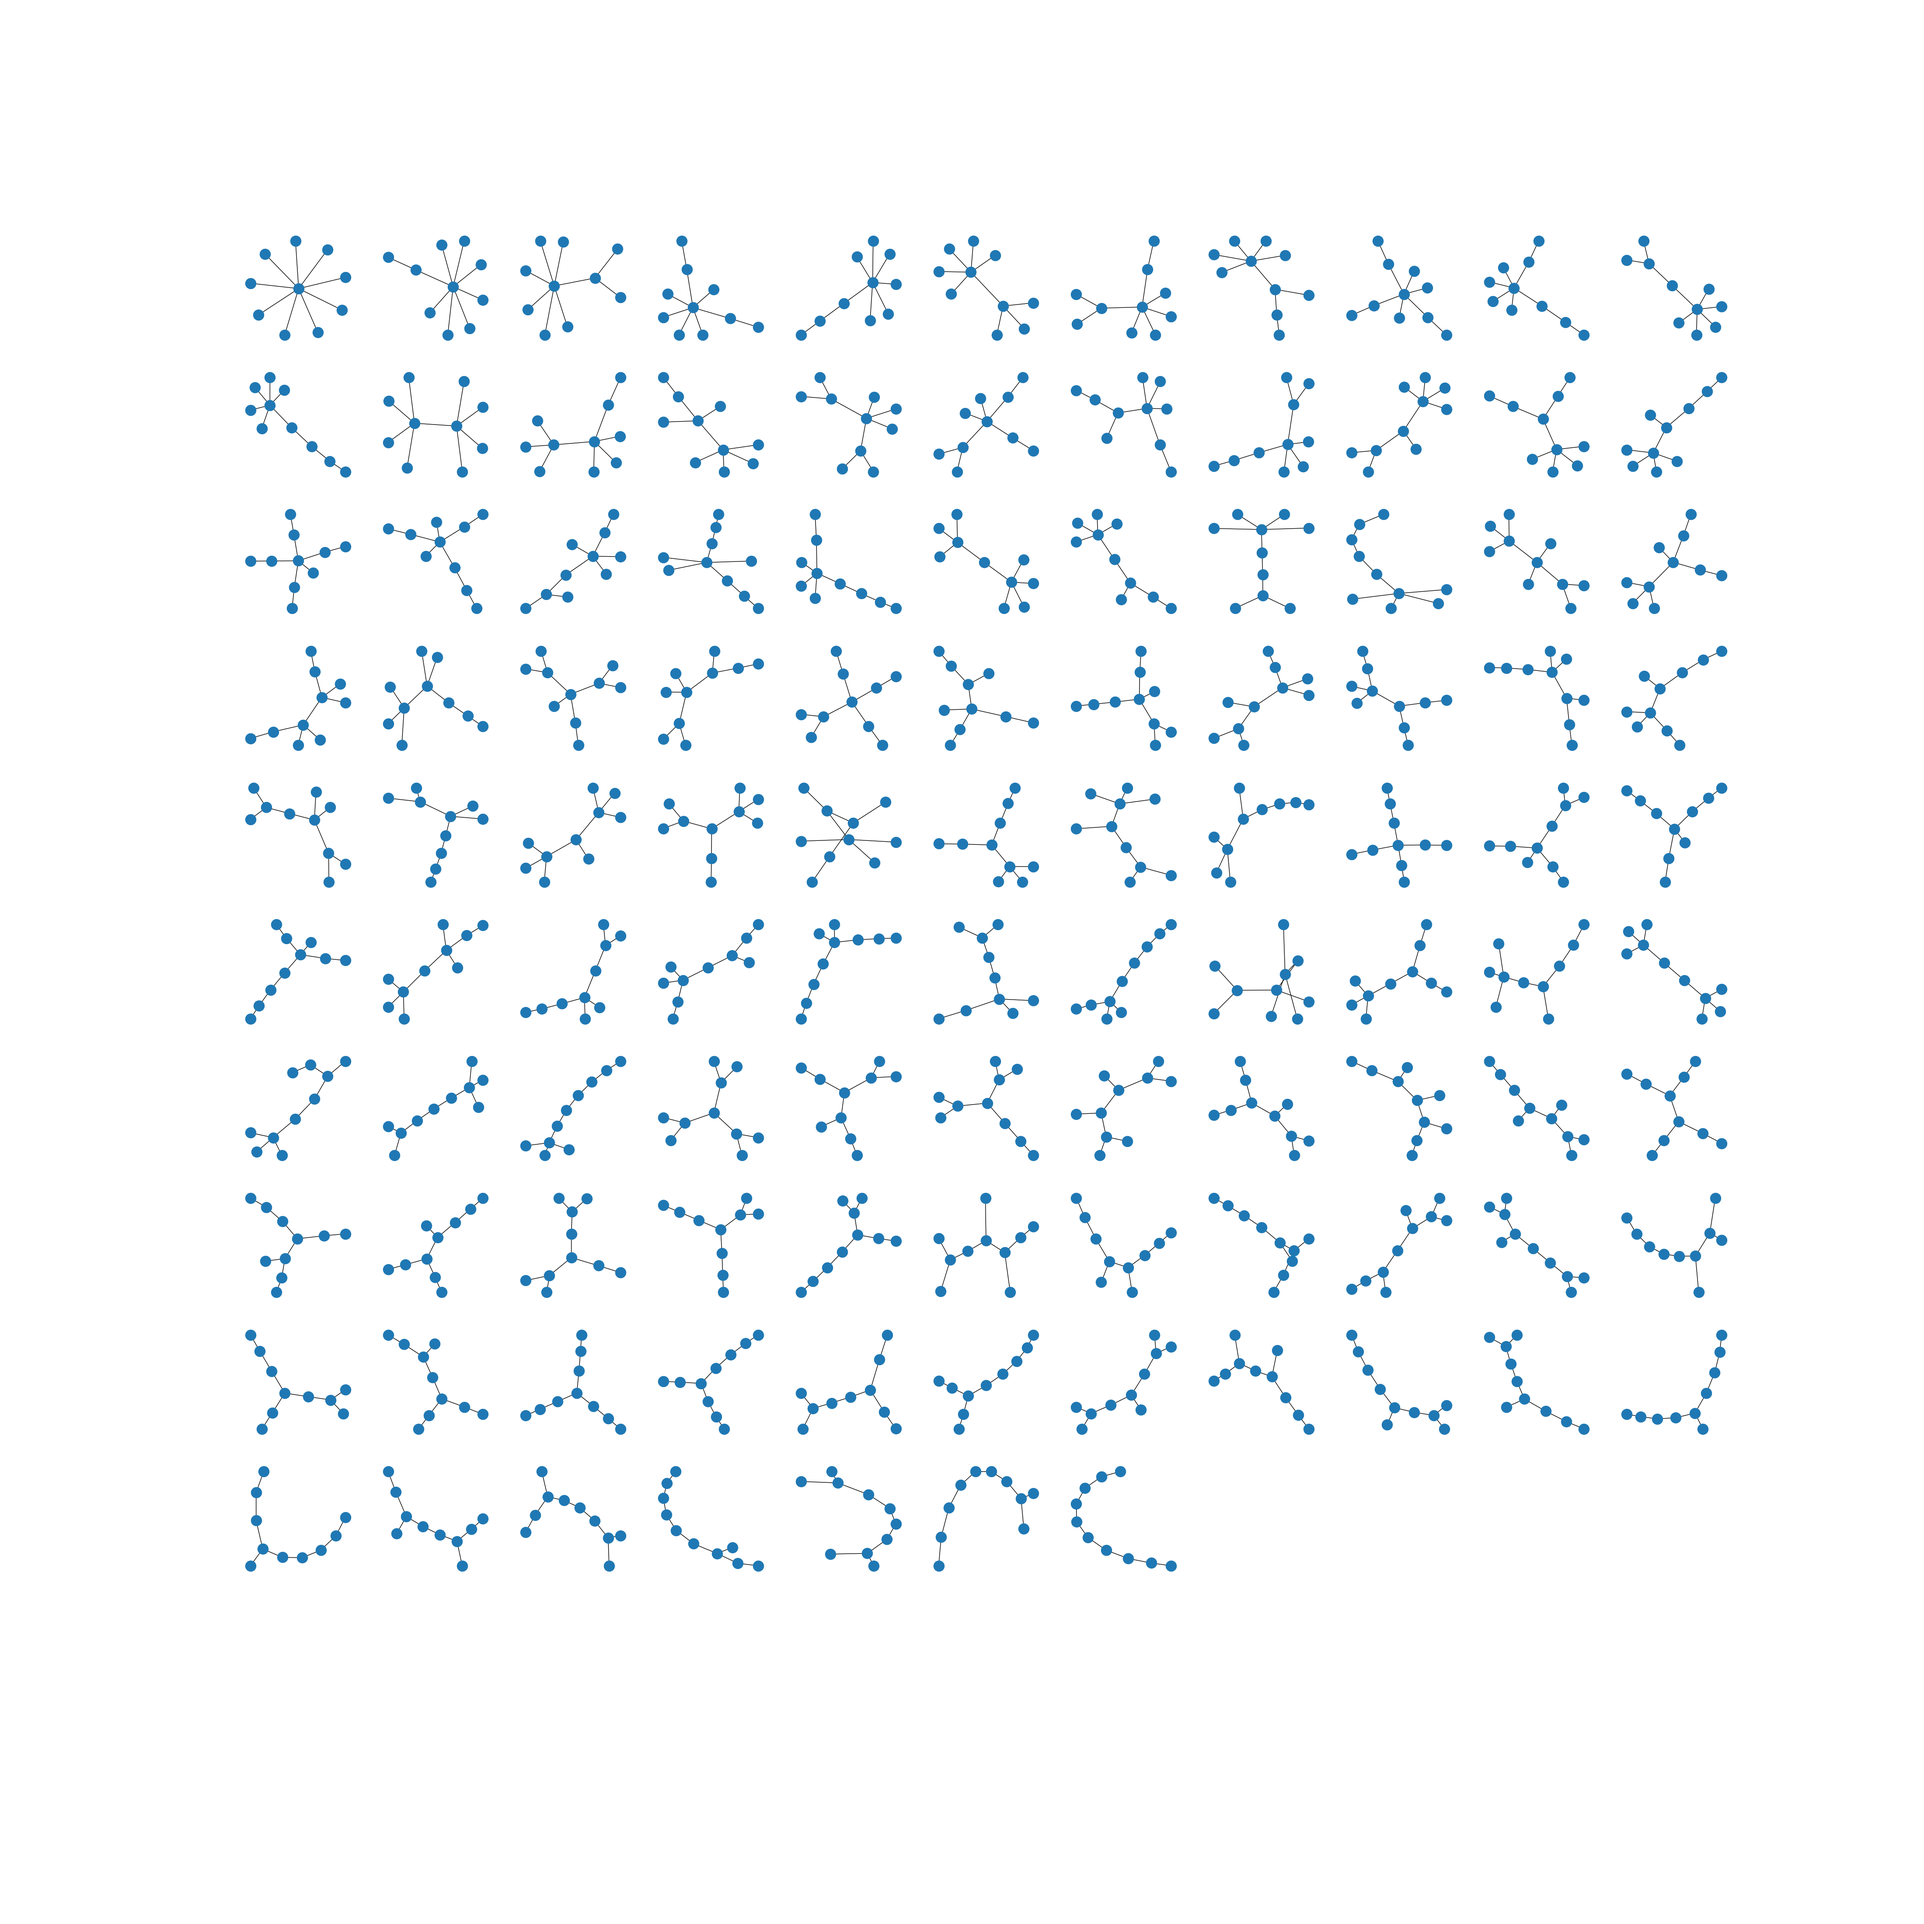
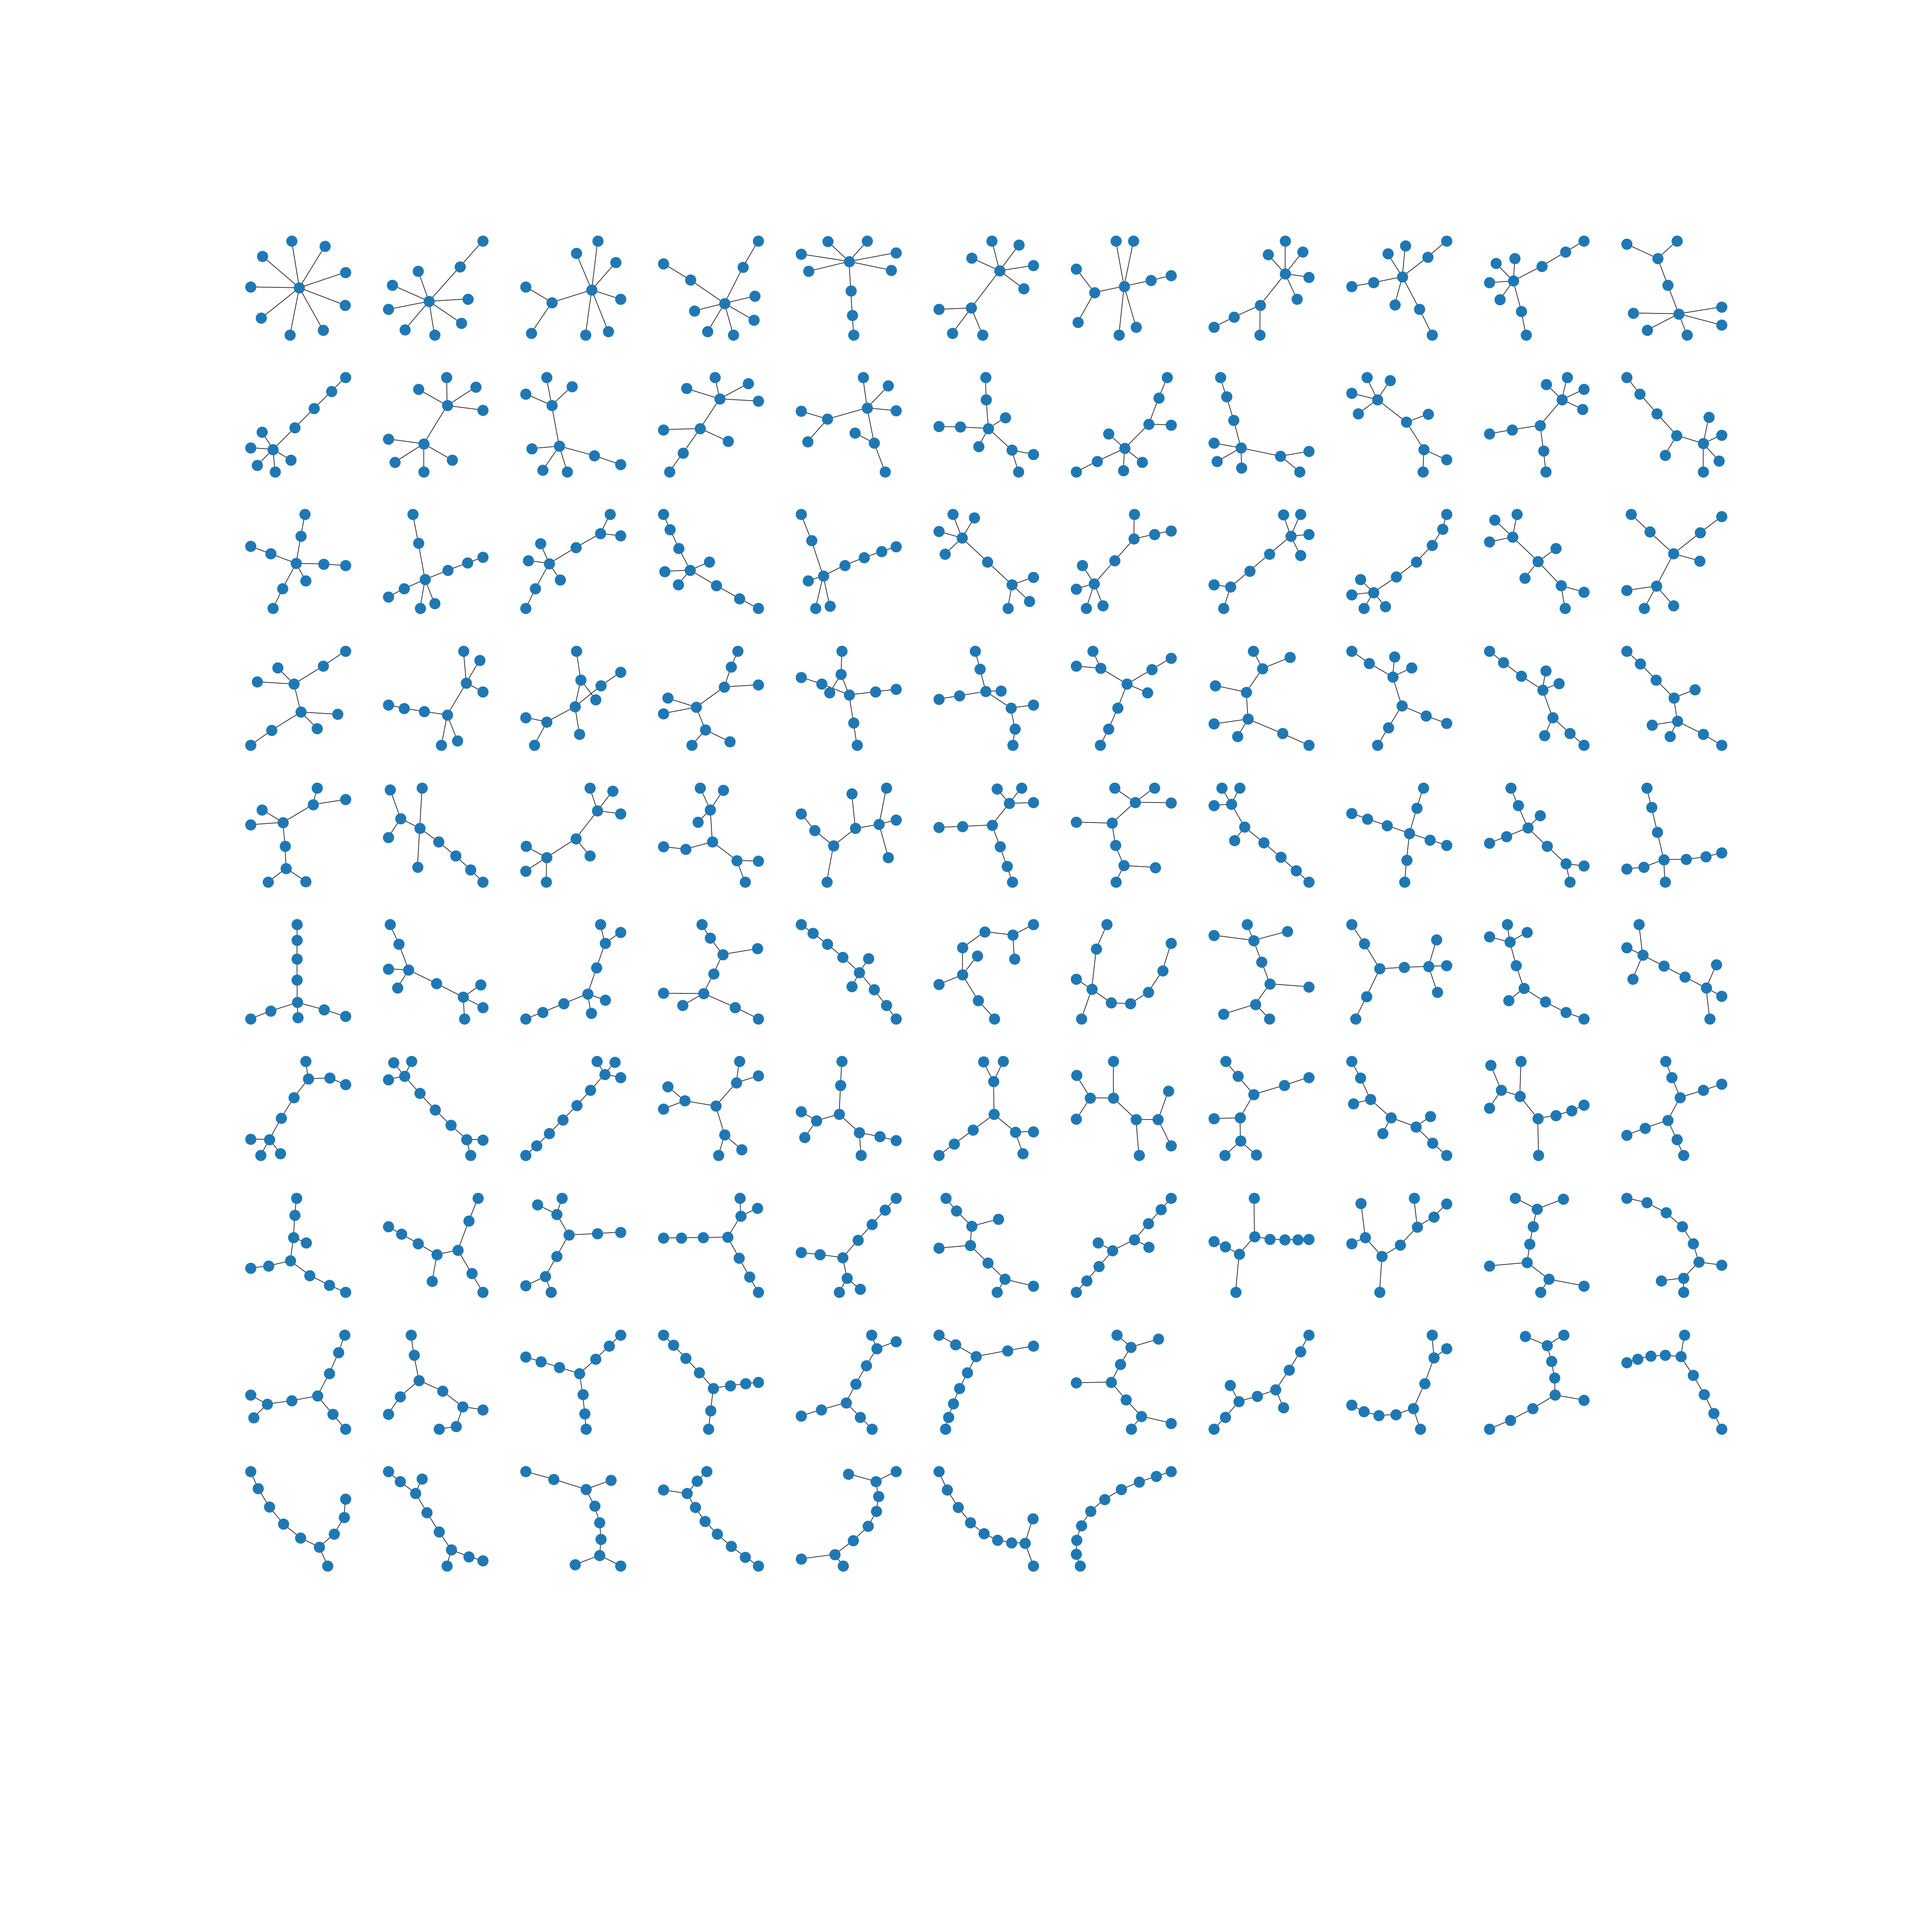
important update

diff --git a/src/Graph.cpp b/src/Graph.cpp
@@ -387,7 +387,7 @@ std::ostream& operator<<(std::ostream& os, const Graph<size>& graph) {
 
 int main(int argc, char *argv[]) {
     std::vector<int> correct_cnt_tree = {1, 1, 1, 1, 2, 3, 6, 11, 23, 47, 106, 235};
-    const int size = 10;
+    const int size = 8;
 
     std::vector<bool> combinations(size * (size - 1) / 2);
     std::vector<std::pair<int, int>> indexes(size * (size - 1) / 2);

diff --git a/scripts/drawGraph.py b/scripts/drawGraph.py
@@ -43,5 +43,5 @@ for file in range(start_file, finish_file + 1):
         subax = plt.subplot(rows, cols, gr + 1)
         nx.draw(G)
 
-    plt.savefig("images/tree" + str(file) + ".png")
+    plt.savefig("images/tree" + "0" * (2 - len(str(file))) + str(file) + ".png")
     fin.close()
